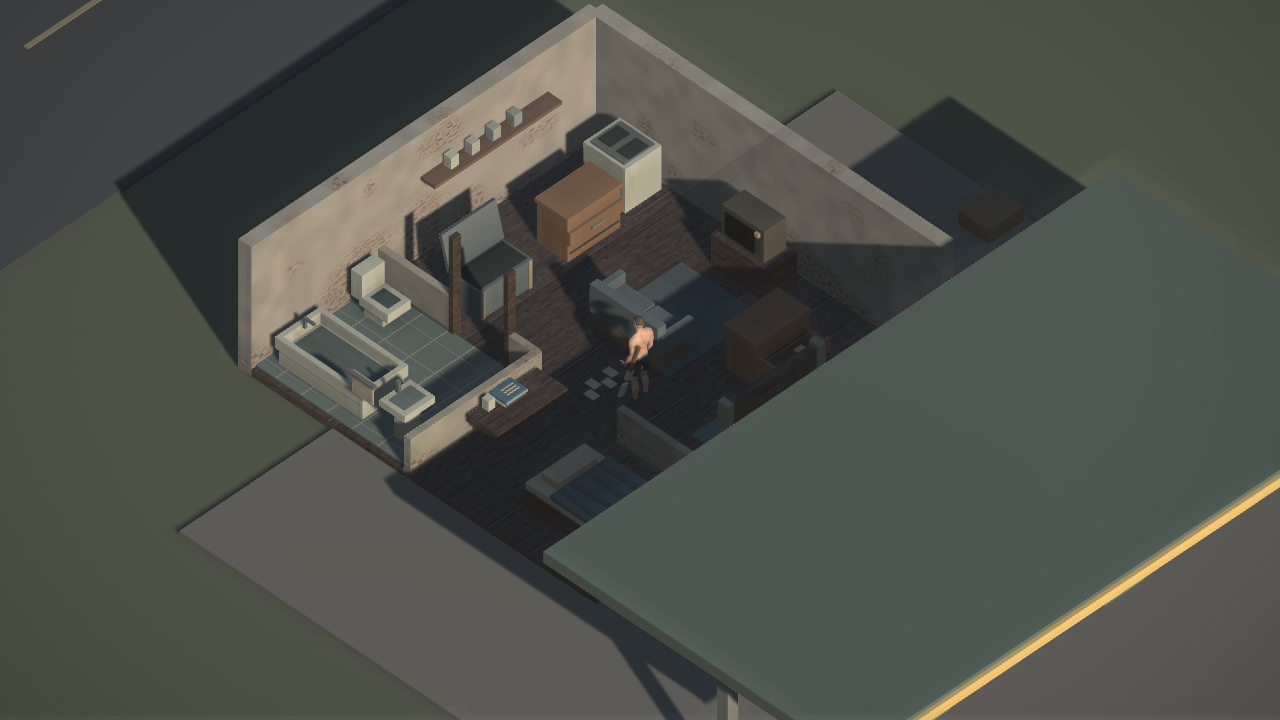
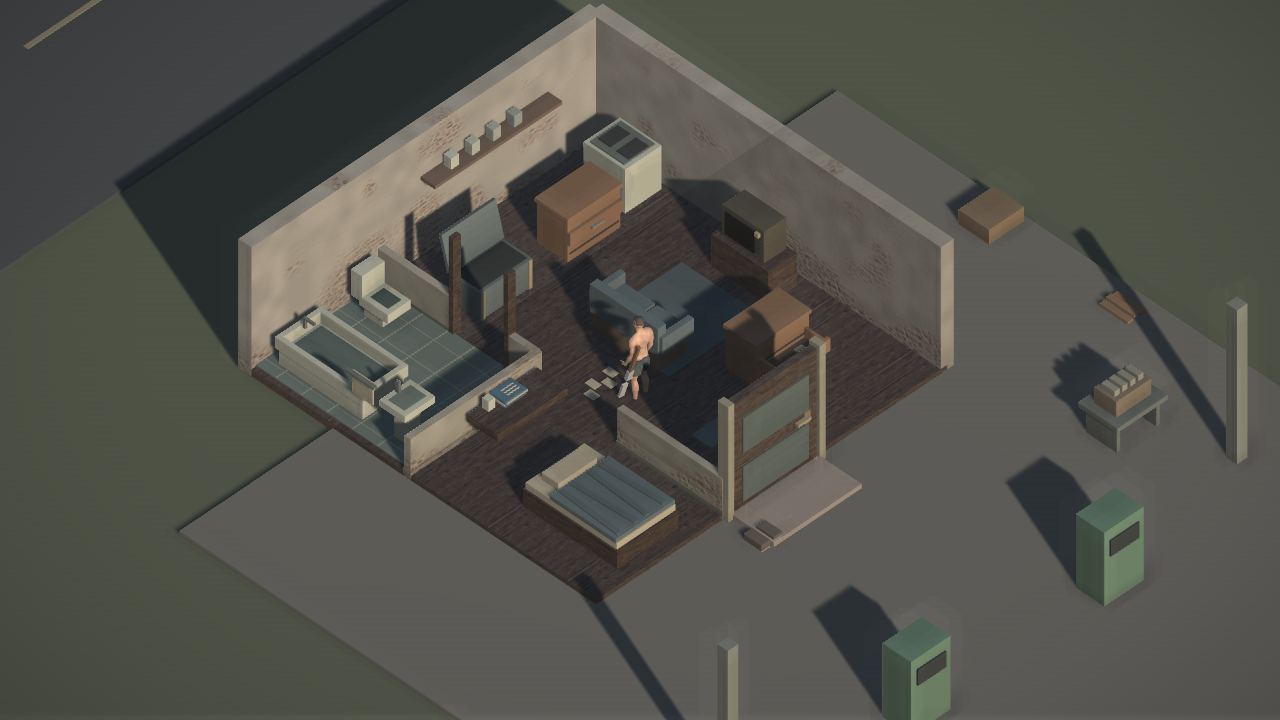
Keep station interiors visible beneath the forecourt canopy

diff --git a/Assets/Scripts/DistrictGame.CuratedChecks.cs b/Assets/Scripts/DistrictGame.CuratedChecks.cs
@@ -59,7 +59,7 @@ namespace Askich {
    var snapshot=CaptureSave();snapshot.enemies[1].id=snapshot.enemies[0].id;File.WriteAllText(SavePath,JsonUtility.ToJson(snapshot));File.WriteAllText(SavePath+".bak","invalid");float before=health;
    Check(!Load()&&health==before,"duplicate enemy identity rejects corrupted save before mutating world");
    foreach(var enemy in infected){enemy.hp=0;enemy.root.gameObject.SetActive(false);}health=100;bleeding=false;infection=0;ResetTelevisions();progression.Data.minute=990;TickWorldLife(0);
-   foreach(var h in buildings){hero.p=h.p+new Vector2(0,-1);hero.root.position=V(hero.p);current=h;foreach(var other in buildings){other.roof.SetActive(other!=h);foreach(var wall in other.cut)wall.SetActive(other!=h);}cam.transform.position=V(hero.p)+new Vector3(-20,25,-20);noticeTime=0;yield return CaptureGameCamera(Path.Combine(folder,"interior-"+homes.IndexOf(h)+".png"),5.8f);}
+   foreach(var h in buildings){hero.p=h.p+new Vector2(0,-1);hero.root.position=V(hero.p);current=h;TickWorldLife(0);if(h==homes[StationHome])Check(!canopyPanel.activeSelf&&!canopyStripe.activeSelf,"station canopy cuts away while inside staff rooms");foreach(var other in buildings){other.roof.SetActive(other!=h);foreach(var wall in other.cut)wall.SetActive(other!=h);}cam.transform.position=V(hero.p)+new Vector3(-20,25,-20);noticeTime=0;yield return CaptureGameCamera(Path.Combine(folder,"interior-"+homes.IndexOf(h)+".png"),5.8f);}
    hero.p=televisions[0].p+Vector2.left;current=televisions[0].home;foreach(var h in buildings){h.roof.SetActive(h!=current);foreach(var wall in h.cut)wall.SetActive(h!=current);}progression.Data.minute=1260;TickWorldLife(0);UseTelevision();yield return CaptureGameCamera(Path.Combine(folder,"television-evening.png"),3.8f);
    Check(televisions.Count==3&&interiorBatches.All(g=>g.GetComponentsInChildren<Renderer>().Any(r=>r.isPartOfStaticBatch)),"three furnished interiors use runtime static batching and independent televisions");
    Application.Quit();

diff --git a/Assets/Scripts/DistrictGame.WorldLife.cs b/Assets/Scripts/DistrictGame.WorldLife.cs
@@ -79,7 +79,7 @@ namespace Askich {
   int NearbyLifeFind(){int found=-1;float range=1.25f;for(int i=0;i<lifeFinds.Count;i++){var f=lifeFinds[i];float distance=Vector2.Distance(hero.p,f.p);if((progression.Data.finds&(1<<i))==0&&distance<range&&Sight(hero.p,f.p)){range=distance;found=i;}}return found;}
   bool UseLifeFind(){int i=NearbyLifeFind();if(i<0)return false;var find=lifeFinds[i];if(!TryPack(find.items,true)){Say("Освободи место для находки. Она останется здесь.");return true;}progression.Data.finds|=1<<i;RefreshLifeFinds();Save();Say("Подобрано: "+find.title+". I — предметы, J — навыки и ремесло.");return true;}
   bool UseEngine(){if(!NearEngine)return false;BeginMedical(MedicalAction.Salvage);return true;}
-  void TickWorldLife(float dt){progression.Advance(dt);atmosphere.SetTime(progression.Data.minute/60);bool underCanopy=new Rect(89.5f,-.3f,13,8).Contains(hero.p);canopyPanel.SetActive(!underCanopy);canopyStripe.SetActive(!underCanopy);foreach(var light in worldNightLights)light.enabled=atmosphere.Daylight<.65f;}
+  void TickWorldLife(float dt){progression.Advance(dt);atmosphere.SetTime(progression.Data.minute/60);bool underCanopy=new Rect(89.5f,-.3f,13,8).Contains(hero.p)||RoomAt(hero.p)==homes[StationHome];canopyPanel.SetActive(!underCanopy);canopyStripe.SetActive(!underCanopy);foreach(var light in worldNightLights)light.enabled=atmosphere.Daylight<.65f;}
   string ClockText{get{int minute=Mathf.FloorToInt(progression.Data.minute);return (minute/60).ToString("D2")+":"+(minute%60).ToString("D2");}}
   void DrawWorldLife(){
    int find=NearbyLifeFind();if(find>=0)GUI.Label(new Rect(35,235,720,30),lifeFinds[find].title+" · подобрать / E",small);

diff --git a/README.md b/README.md
@@ -43,7 +43,7 @@
 
 ## Проверка и ограничения
 
-Текущая Windows-сборка прошла **383 локальные проверки** планировки, телевизоров, обыска, слуха заражённых, боя, окон, баррикад, навыков, интерфейса и переноса сохранений. Сборка завершена без ошибок и предупреждений. [Отчёт и ограничения этапа](docs/CURATED_DISTRICT.md).
+Текущая Windows-сборка прошла **384 локальные проверки** планировки, телевизоров, обыска, слуха заражённых, боя, окон, баррикад, навыков, интерфейса и переноса сохранений. Сборка завершена без ошибок и предупреждений. [Отчёт и ограничения этапа](docs/CURATED_DISTRICT.md).
 
 Модели мебели, транспорта, растительность и часть окон ещё упрощены. Некоторые анимации требуют дальнейшей работы. Мир пока ограничен созданным районом, мультиплеера нет. Проверки не заменяют длительный игровой тест и не гарантируют работу на всех компьютерах.
 

diff --git a/docs/CURATED_DISTRICT.md b/docs/CURATED_DISTRICT.md
@@ -27,7 +27,7 @@
 
 ## Проверка
 
-383 локальные проверки пройдены. Windows Development и обычная сборка завершены без ошибок и предупреждений; обычная версия отдельно запущена и штатно закрыта.
+384 локальные проверки пройдены. Windows Development и обычная сборка завершены без ошибок и предупреждений; обычная версия отдельно запущена и штатно закрыта.
 
 Локальные сценарии запускаются в настоящем Windows Player с отдельными временными сохранениями. Проверяются все девять точек обыска, проходы между комнатами, препятствия, телевизоры и шум, перенос реального старого сохранения, защита от повторной выдачи, бой, окна, баррикады, навыки и интерфейс. Отчёты этого этапа — `curated-*-checks.txt`; состав мира — `curated-world-budget.txt`.
 
